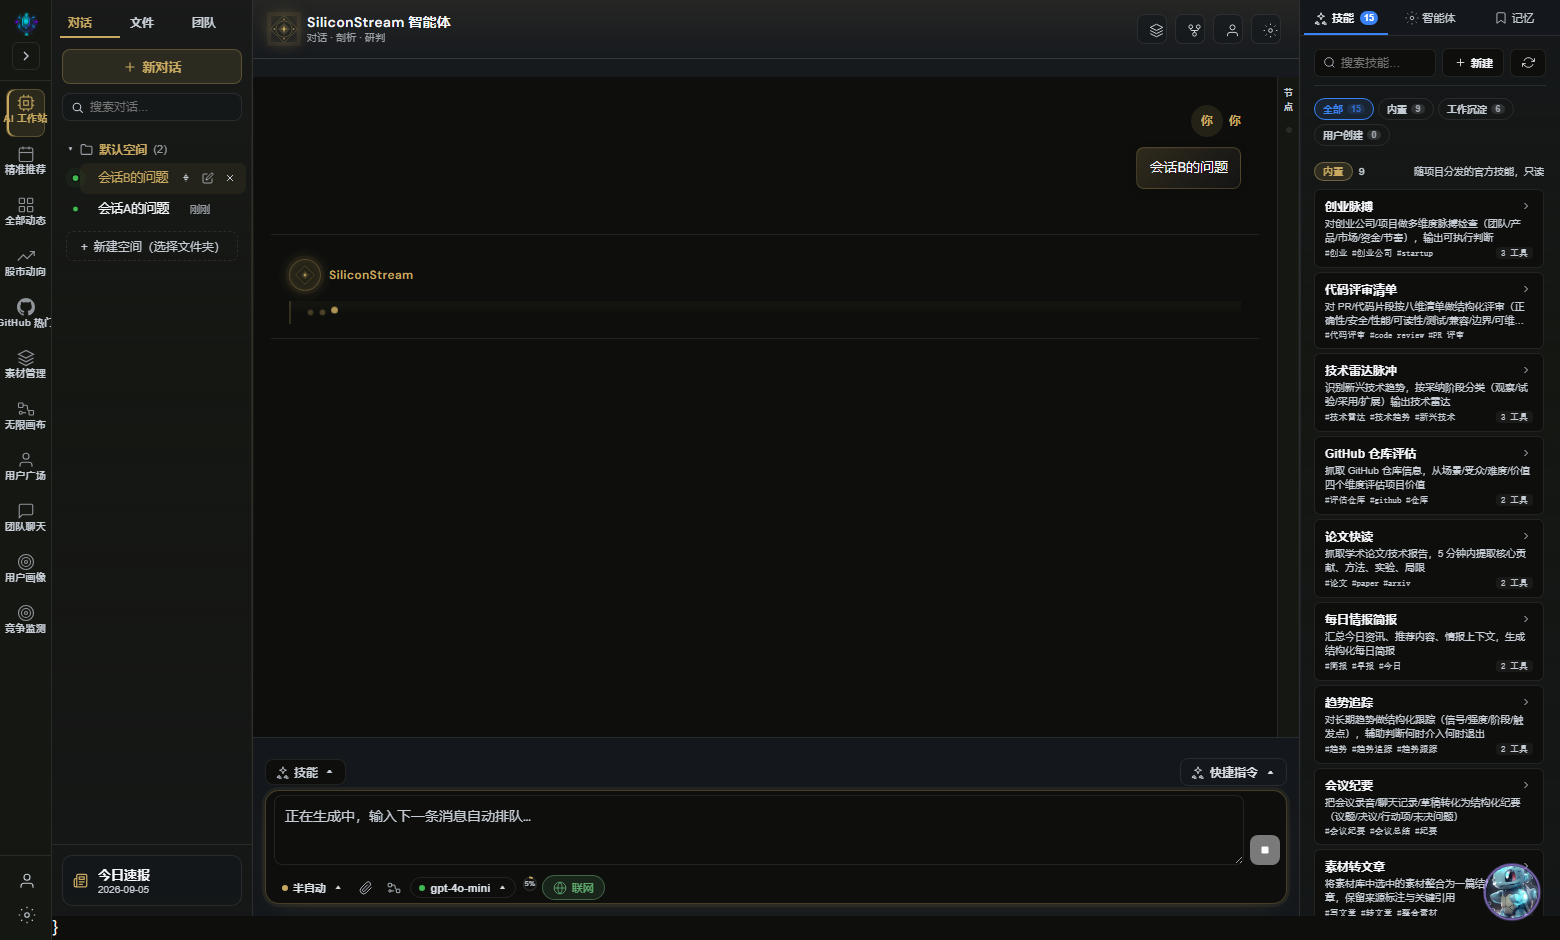
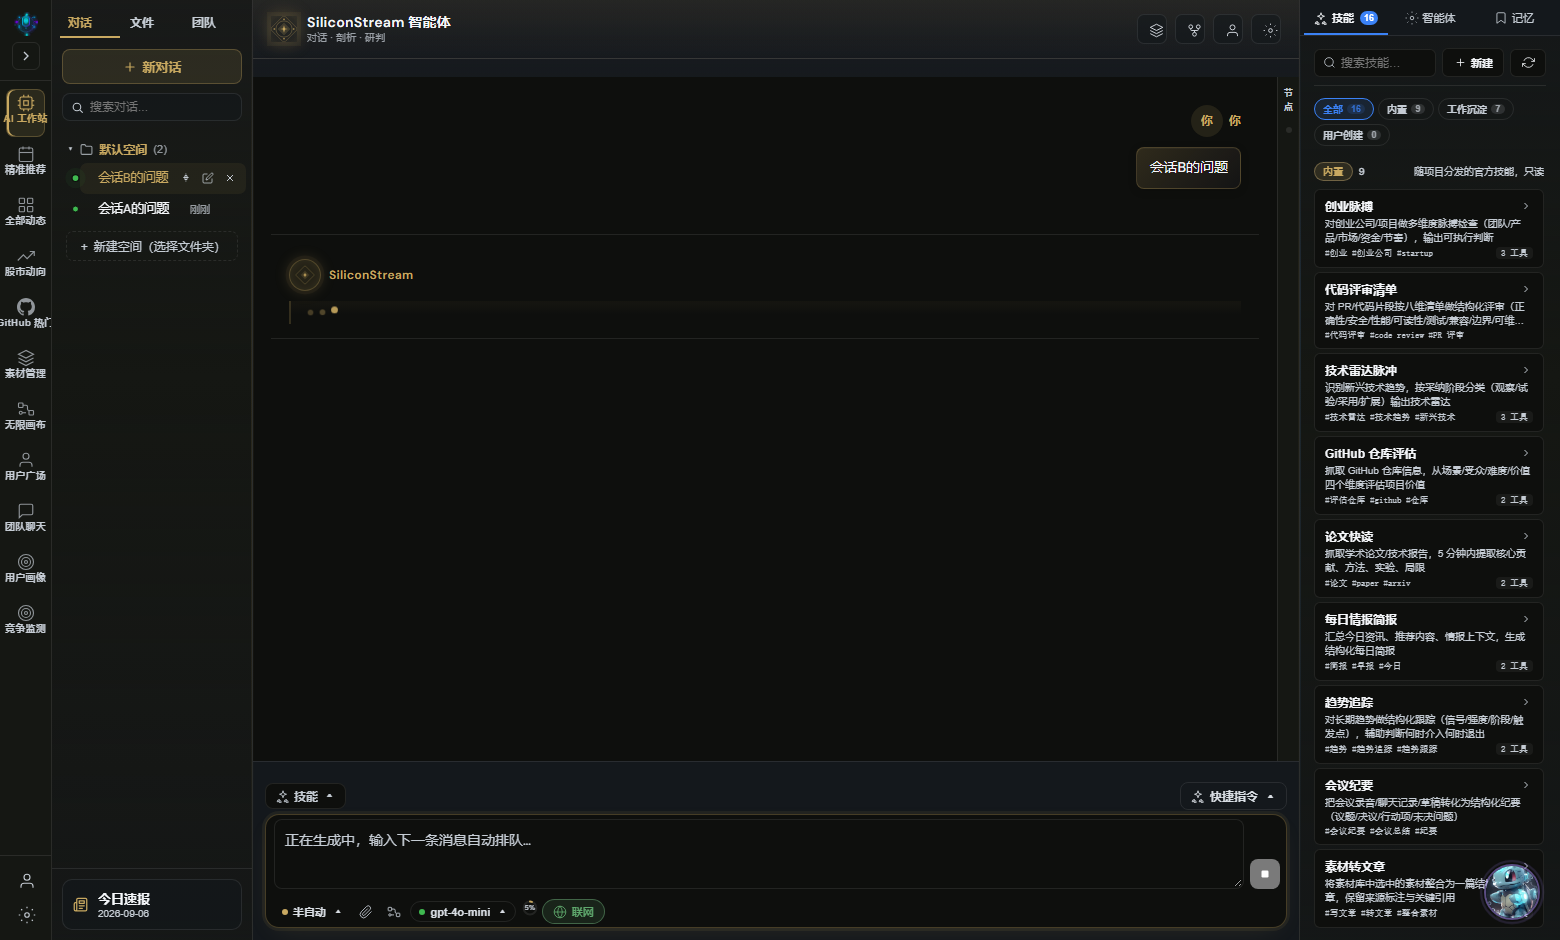
feat(workstation): v16 — 群聊两阶段流水线并行化（认领/产出 allSettled，成员独立个体同时执行，产出任务书改为并行协作模式说明）；文件预览新增 PDF（iframe 原生查看器）与 Word docx（mammoth 动态加载转 HTML），关联按钮限定文本类；删除 feed 容器残留的多余右括号文本节点；素材管理侧栏占满整列 + 素材卡片重设计（悬停浮起/星标金框/三行钳制/虚线 meta 分隔）

diff --git a/src/components/aichat/AgentTeamChat.jsx b/src/components/aichat/AgentTeamChat.jsx
@@ -14,7 +14,7 @@
  *   贴底自动跟随；上翻阅读不吸底，底部浮出「有新消息」跳转浮标（带未读数）
  * - 失败可重试（v9）：失败/中止气泡带「重试」，按 runId 重建该成员的认领/产出任务
  * - 顶栏（v12）：居中群名 + 头像叠放 + 导出/清空/记录；群管理（建/名/删/切）移至左侧栏
- * - 两阶段广播流水线（v7）：每条消息全员收到 → Phase 1 角色认领 → Phase 2 协作产出
+ * - 两阶段广播流水线（v16 并行化）：全员同时认领 → 认领者并行独立产出（每个成员都是独立个体，互不等待）
  * - 执行核：复用 subagentRunner.runOneSubagent（独立工具白名单/预算/审批会话）
  */
 import { useEffect, useMemo, useRef, useState, useCallback, Fragment } from 'react';
@@ -120,13 +120,6 @@ function fmtDivider(ts) {
   if (sameDay(d, yest)) return `昨天 ${hm}`;
   return `${d.getMonth() + 1}月${d.getDate()}日 ${hm}`;
 }
-
-/** 报告 → 引用块摘要（剥掉 Markdown 符号，压成一行可读文本） */
-const quoteSnippet = (t) => String(t || '')
-  .replace(/[#*`>|]/g, ' ')
-  .replace(/\s+/g, ' ')
-  .trim()
-  .slice(0, 110);
 
 export default function AgentTeamChat({
   runtime = {},
@@ -381,7 +374,7 @@ export default function AgentTeamChat({
   ].join('\n'), []);
 
   /** 产出阶段任务书（含认领声明与前序成员产出） */
-  const buildWorkObjective = useCallback((preset, shared, userText, myClaim, priorRound) => [
+  const buildWorkObjective = useCallback((preset, shared, userText, myClaim) => [
     '【群聊共享上下文】（含本轮各成员的认领声明，彼此可见）',
     shared,
     '',
@@ -389,11 +382,9 @@ export default function AgentTeamChat({
     '',
     myClaim ? `【你已认领】${myClaim}` : '【你的认领】（被创始人点名参与，直接承担）',
     '',
-    priorRound
-      ? `【前序成员产出】（请引用/校对/深化，不要重复劳动；有不同意见可以直接在产出里回应队友）\n${priorRound}`
-      : '【前序成员产出】（你是本轮第一个执行者，负责打好第一棒）',
+    '【协作模式】成员并行独立执行：每人同时开工，各自完成自己认领的部分，不要等待或代替他人；全部产出会一起汇总展示。',
     '',
-    `请执行你认领的部分，直接给出结构化产出（这是发到群里的回复，不要寒暄）。保持你的性格与说话风格${priorRound ? '，并与前序成员的产出形成呼应或讨论' : ''}。`,
+    '请执行你认领的部分，直接给出结构化产出（这是发到群里的回复，不要寒暄）。保持你的性格与说话风格。',
   ].join('\n'), []);
 
   /** 执行核工厂：注入流式回调（节流刷新占位气泡），认领/产出/重试共用 */
@@ -447,10 +438,9 @@ export default function AgentTeamChat({
     const runMember = makeRunMember(controller);
 
     try {
-      /* ---- Phase 1：全员广播 · 角色认领（systemPrompt 已带性格灵魂） ---- */
-      const claims = new Map(); // presetId → { preset, claimText, kind }
-      for (const preset of ordered) {
-        if (controller.signal.aborted) break;
+      /* ---- Phase 1：全员广播 · 角色认领（v16 并行：每个成员都是独立个体，同时认领） ---- */
+      const claimResults = await Promise.allSettled(ordered.map(async (preset) => {
+        if (controller.signal.aborted) return null;
         const placeholder = addGroupMessage({
           role: 'agent', agentId: preset.id, agentName: preset.name,
           content: '', status: 'running', meta: { phase: 'claim', runId },
@@ -472,7 +462,11 @@ export default function AgentTeamChat({
           status: result.status === 'done' ? 'done' : result.status,
           meta: { phase: 'claim', kind, runId, turns: result.turns, tokens: result.usage?.total_tokens || 0 },
         });
-        claims.set(preset.id, { preset, claimText, kind });
+        return { preset, claimText, kind };
+      }));
+      const claims = new Map(); // presetId → { preset, claimText, kind }
+      for (const r of claimResults) {
+        if (r.status === 'fulfilled' && r.value) claims.set(r.value.preset.id, r.value);
       }
 
       /* ---- 流水线事件行：谁接下了任务（微信系统行的"事件流"语义） ---- */
@@ -489,33 +483,25 @@ export default function AgentTeamChat({
         addGroupMessage({ role: 'system', content: '本轮暂无成员认领——试试 @ 具体成员点名参与' });
       }
 
-      /* ---- Phase 2：认领成员协作产出（共享转写含彼此认领与前序产出） ---- */
-      let priorRound = '';
-      let lastDone = null; // { mid, name, report }：接力引用块的来源（上一位产出者）
-      for (const preset of contributors) {
-        if (controller.signal.aborted) break;
+      /* ---- Phase 2：认领成员并行产出（v16：每个成员都是独立个体，共享同一份白板，互不等待） ---- */
+      await Promise.allSettled(contributors.map(async (preset) => {
+        if (controller.signal.aborted) return;
         const placeholder = addGroupMessage({
           role: 'agent', agentId: preset.id, agentName: preset.name,
-          content: '', status: 'running',
-          meta: {
-            phase: 'work', runId,
-            quote: lastDone ? { from: lastDone.name, mid: lastDone.mid, text: quoteSnippet(lastDone.report) } : null,
-          },
+          content: '', status: 'running', meta: { phase: 'work', runId },
         });
         if (!placeholder?.id) throw new Error('占位消息创建失败');
         const shared = buildSharedTranscript(getActiveChat().messages.filter(m => m.id !== placeholder.id), 14, active.announcement);
         const myClaim = claims.get(preset.id)?.claimText || '';
-        const objective = buildWorkObjective(preset, shared, text, myClaim, priorRound);
+        const objective = buildWorkObjective(preset, shared, text, myClaim);
         const result = await runMember(preset, objective, placeholder);
         const ok = result.status === 'done' && result.report;
         updateGroupMessage(placeholder.id, {
           content: ok ? result.report : `⚠ ${result.error || '未产出内容'}`,
           status: ok ? 'done' : result.status,
-          meta: { phase: 'work', runId, turns: result.turns, tokens: result.usage?.total_tokens || 0, quote: lastDone ? { from: lastDone.name, mid: lastDone.mid, text: quoteSnippet(lastDone.report) } : null },
+          meta: { phase: 'work', runId, turns: result.turns, tokens: result.usage?.total_tokens || 0 },
         });
-        if (ok) lastDone = { mid: placeholder.id, name: preset.name, report: result.report };
-        priorRound += `${priorRound ? '\n\n' : ''}### @${preset.name}（${result.status === 'done' ? '已完成' : result.status}）\n${String(result.report || result.error || '').slice(0, 2400)}`;
-      }
+      }));
     } catch (err) {
       // 防御：unexpected 异常也以系统行落进群聊，而不是无声消失
       addGroupMessage({ role: 'system', content: `⚠ 团队协作异常中断：${err?.message || err}` });
@@ -546,15 +532,9 @@ export default function AgentTeamChat({
     const myClaim = phase === 'work'
       ? (sameRun.find(x => x.role === 'agent' && x.agentId === m.agentId && x.meta?.phase === 'claim' && x.status === 'done')?.content || '')
       : '';
-    const priorRound = phase === 'work'
-      ? sameRun
-        .filter(x => x.role === 'agent' && x.meta?.phase === 'work' && x.status === 'done' && x.at < m.at)
-        .map(x => `### @${x.agentName || x.agentId}（已完成）\n${String(x.content || '').slice(0, 2400)}`)
-        .join('\n\n')
-      : '';
     const objective = phase === 'claim'
       ? buildClaimObjective(preset, shared, text)
-      : buildWorkObjective(preset, shared, text, myClaim, priorRound);
+      : buildWorkObjective(preset, shared, text, myClaim);
 
     updateGroupMessage(m.id, { content: '', status: 'running' });
     setGroupRunning(true);

diff --git a/src/styles.css b/src/styles.css
@@ -28396,3 +28396,68 @@ body {
 .gtc-mention-pop b { font-size: 12px; color: var(--accent-cyan); }
 .gtc-mention-pop small { font-size: 10px; color: var(--text-muted); }
 .gtc-mention-empty { padding: 8px; font-size: 11px; color: var(--text-muted); text-align: center; }
+
+/* ===== v16 素材管理：侧栏占满 + 素材卡片重设计 ===== */
+.repo-page { align-items: stretch; }
+.repo-rail {
+  max-height: none;
+  gap: 18px;
+  padding: 14px 12px;
+}
+.repo-rail-label { font-size: 10.5px; letter-spacing: .08em; color: var(--text-muted); font-weight: 700; }
+.repo-rail-item { padding: 7px 10px; border-radius: 8px; font-size: 12.5px; }
+.repo-rail-item.active {
+  background: color-mix(in srgb, var(--accent-cyan) 12%, transparent);
+  font-weight: 600;
+}
+.repo-rail-group + .repo-rail-group { border-top: 1px dashed var(--border-color); padding-top: 12px; }
+
+/* ---- 素材卡片：封面化头部 + 悬停浮起 + 三行钳制 + 分隔 meta ---- */
+.materials-grid { grid-template-columns: repeat(auto-fill, minmax(300px, 1fr)); gap: 14px; }
+.material-card {
+  max-height: none;
+  padding: 12px 14px;
+  border-radius: 14px;
+  gap: 8px;
+  transition: transform .16s ease, box-shadow .16s ease, border-color .16s ease;
+}
+.material-card:hover {
+  transform: translateY(-2px);
+  border-color: color-mix(in srgb, var(--accent-cyan) 45%, var(--border-color));
+  box-shadow: 0 12px 28px rgba(0, 0, 0, .16);
+}
+.material-card.starred {
+  border-color: color-mix(in srgb, #c9a961 55%, var(--border-color));
+  background: color-mix(in srgb, #c9a961 4%, var(--bg-card));
+}
+.material-card .material-content {
+  max-height: none;
+  overflow: hidden;
+  display: -webkit-box;
+  -webkit-line-clamp: 3;
+  -webkit-box-orient: vertical;
+  padding-right: 0;
+  color: var(--text-secondary);
+  font-size: 12px;
+  line-height: 1.6;
+}
+.material-card .material-title { font-size: 13.5px; font-weight: 700; line-height: 1.45; }
+.material-card .material-image { border-radius: 10px; }
+.material-card .material-meta {
+  margin-top: auto;
+  padding-top: 8px;
+  border-top: 1px dashed var(--border-color);
+  gap: 8px;
+}
+.material-card .material-tags {
+  color: var(--accent-cyan);
+  font-size: 11px;
+}
+.material-card .material-note {
+  margin: 0;
+  font-size: 11.5px;
+}
+/* 卡片内操作按钮：hover 才浮现，减少常驻噪音 */
+.material-card .material-header-actions { opacity: 0; transition: opacity .14s ease; }
+.material-card:hover .material-header-actions { opacity: 1; }
+.material-research { border: 1px solid var(--accent-cyan-border); background: transparent; }

diff --git a/src/components/WorkspacePanel.jsx b/src/components/WorkspacePanel.jsx
@@ -532,7 +532,7 @@ export default function WorkspacePanel() {
                   {savingPreview ? '保存中…' : '保存到本地'}
                 </button>
               )}
-                {!isImageFile(previewFile.name) && (
+                {isTextFile(previewFile.name) && (
                   <button
                     type="button"
                     className="workspace-side-panel-action"

diff --git a/src/App.jsx b/src/App.jsx
@@ -2482,7 +2482,7 @@ ${signals}
               saveAsTemplate={(payload) => saveWorkflowAsTemplate(payload)}
               resetDraft={resetWorkflowDraft}
             />
-          )}}
+          )}
 
           {/* ALL NEWS */}
           {nav === 'all' && (

diff --git a/skills/work/material-deep-research-e-y0jw/SKILL.md b/skills/work/material-deep-research-e-y0jw/SKILL.md
@@ -1,0 +1,36 @@
+---
+name: material-deep-research-e-y0jw
+title: material-deep-research-evidence-validation
+description: 基于 AI 精灵/历史素材继续深化情报分析的标准流程：先验证证据链，再补证，最后产出四件套
+category: research
+triggers: 素材深化, 继续研究, 基于素材, AI精灵, 风险验证
+tools: list_knowledge, read_intelligence_focus, search_news, save_knowledge
+version: 0.1.0
+author: 工作沉淀
+---
+
+# 素材接力深化研究技能
+
+## 适用场景
+用户给出历史素材（AI 精灵保存的分析/交接记录），要求"继续深化"时使用。目标是产出四件套：1）核心判断 2）需验证证据 3）下一步研究清单 4）可沉淀为文章的结构。
+
+## 工作流程
+1. **读素材定框架**：提取素材中的核心结论与引用的资讯 ID 列表，形成待验证矩阵（证据 ID × 风险/结论 × 验证方法）。
+2. **知识库检索**：list_knowledge 用素材关键词检索沉淀；命中的文件用 read_workspace_file 读取（注意：工作空间未连接时读取失败，改以素材上下文为唯一输入源，并如实告知用户）。
+3. **情报库补证**：优先 read_intelligence_focus（按主题聚类，返回条目可直接以 [资讯:ID] 引用）；聚焦未命中时用 search_news 逐条关键词检索，检索不到触发联网兜底。关键决策点：联网兜底结果质量低（官网/百科无关页）时，判定为"证据链断裂"，不强行引用。
+4. **素材 ID 校验**：素材引用的 [资讯:ID] 若不在当前证据池，必须明确标注"无法确认"，严禁编造或续引。
+5. **融合当日情报**：用当日证据池中可确认条目（尤其命中用户特别关注的）重构主轴判断，素材框架仅作分析透镜。
+6. **四件套输出**：核心判断（一句话+表格）/待验证证据（含验证路径）/研究清单（含工具）/文章结构（标题候选+章节大纲）。
+7. **沉淀**：save_knowledge 保存分析结论（knowledge 类型），create_skill 保存方法（标题必须 kebab-case，1-64 字符）。
+
+## 决策点与陷阱
+- 素材证据 ID 超出证据池 = 信息鸿沟信号，输出时必须显式声明，这是对准确性的承诺。
+- 置信度 <50% 的单源情报只能作"侧面信号"，不能升格为事实。
+- 用户偏好表格输出：所有清单类内容用 markdown 表格。
+- 禁止 emoji；先结论后依据。
+
+## 工具使用经验
+- read_intelligence_focus 对"公司名+资本"类主题命中率低，改用更短主题词（如"OpenAI"）或直接 search_news。
+- search_news 未命中自动联网兜底，但兜底结果按相关性排序差，需人工判断是否可用。
+- update_task 每个阶段完成即更新，保持执行计划状态新鲜。
+- create_skill 的 title 必须符合 kebab-case（小写+连字符），中文标题会报错，先用英文/拼音命名或去掉特殊字符。
